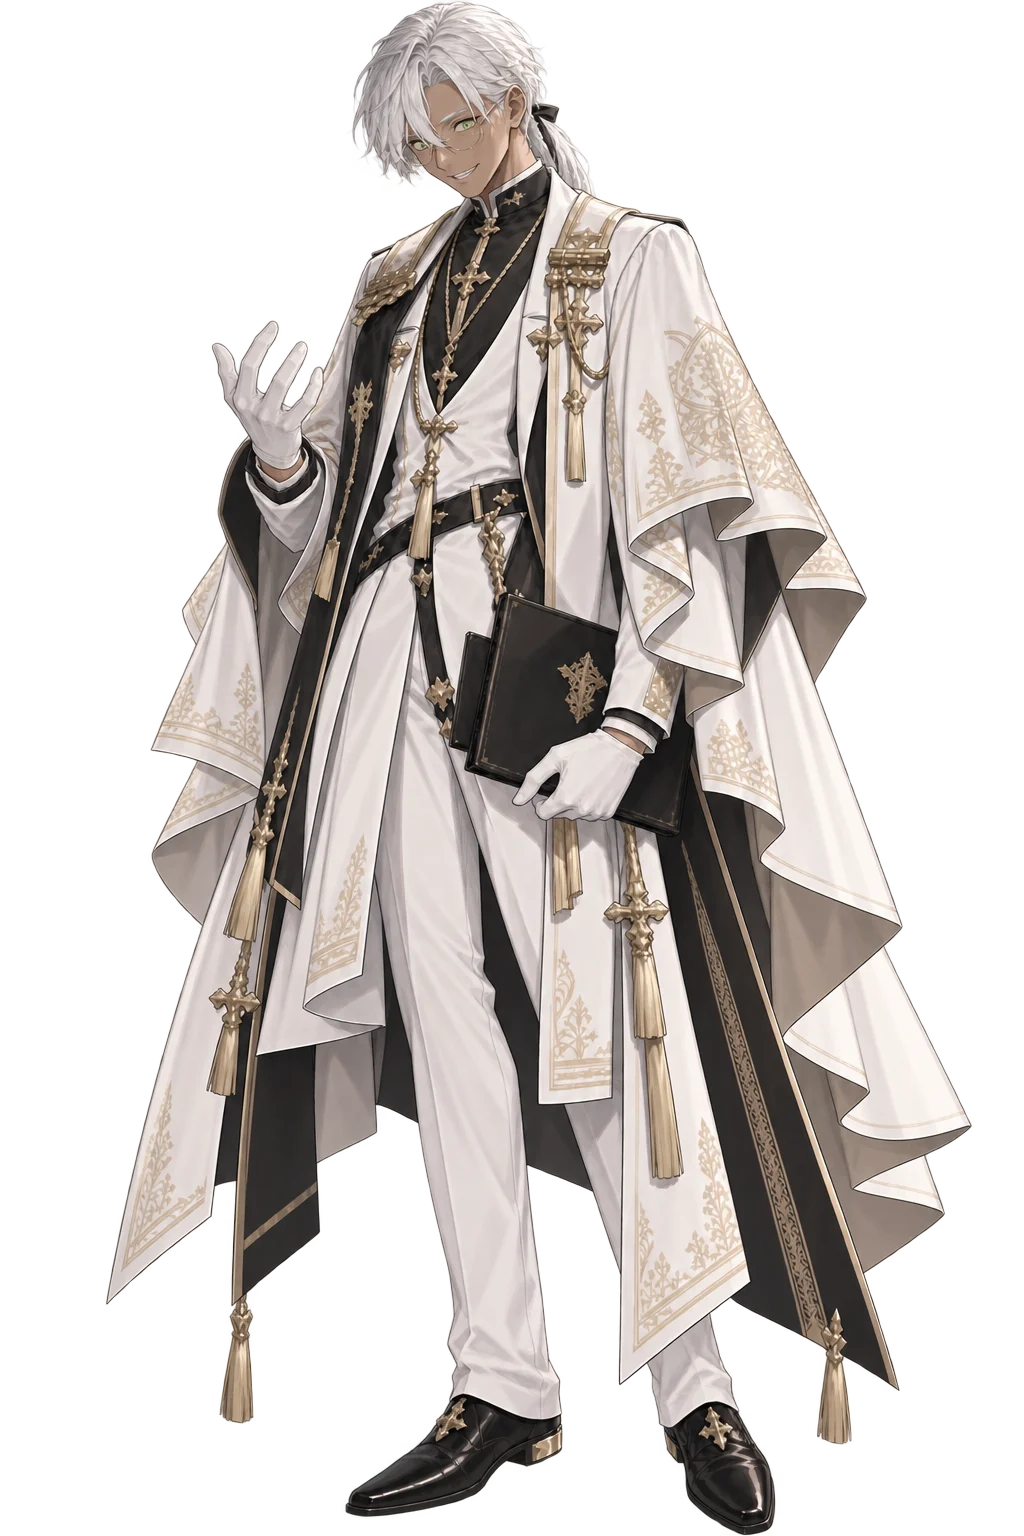
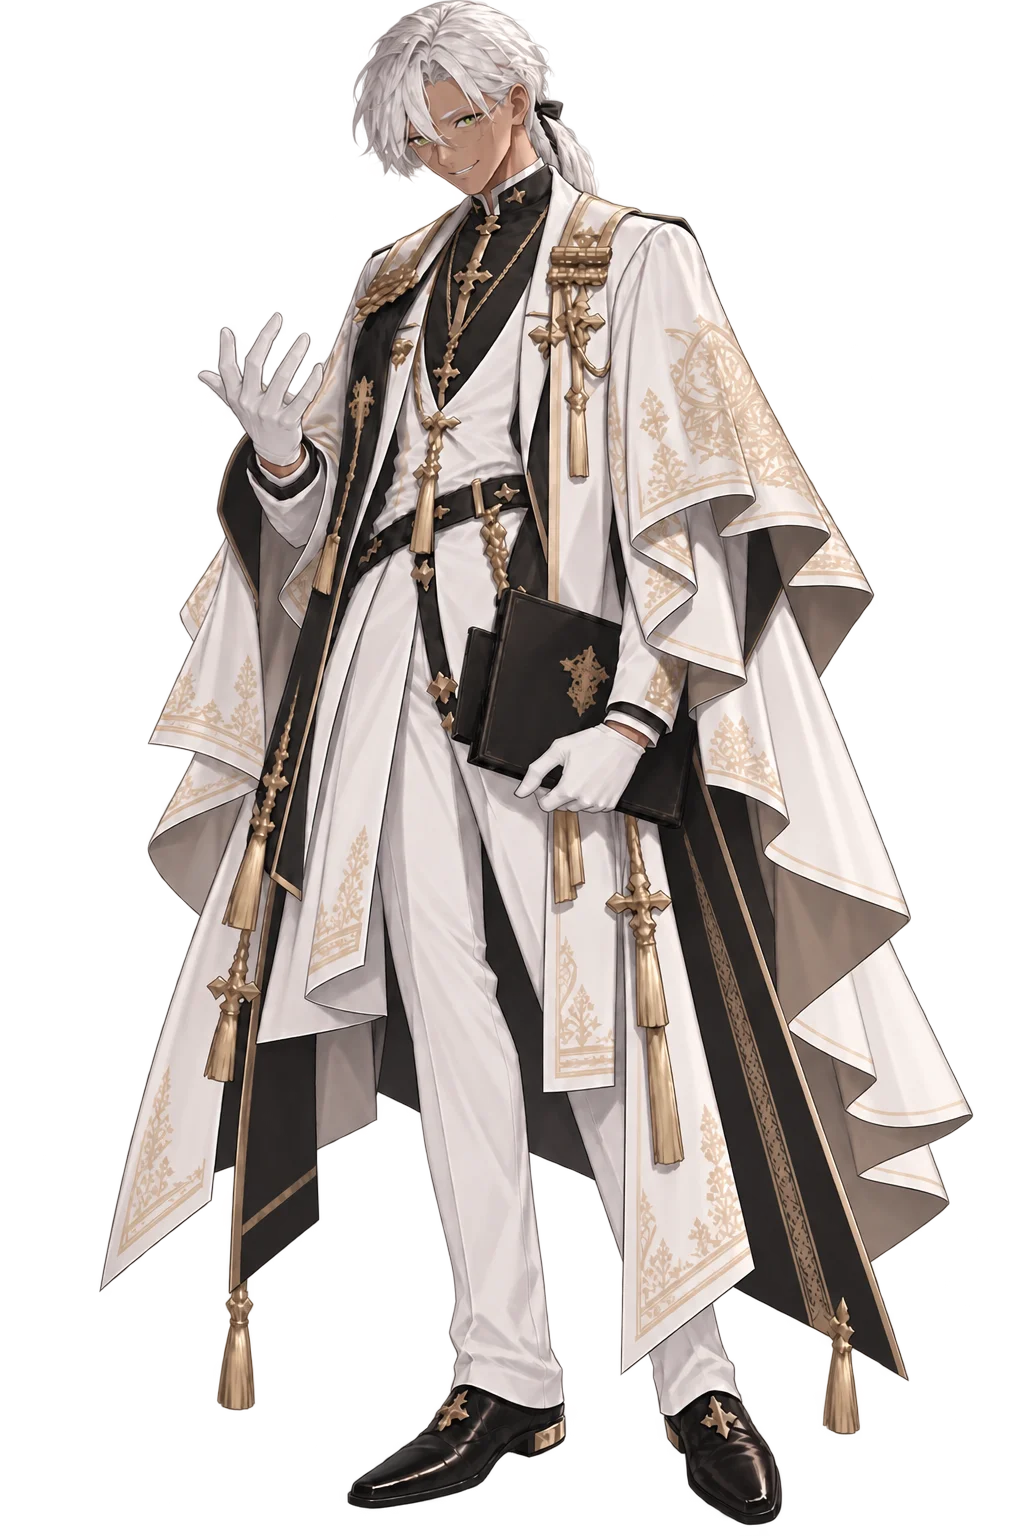
fix: 共鬥期間不再累積破防值／料理完成全域可點／高跟鞋 SE／科爾文新圖 ver -1002
Ray 這一輪五件：

1. 「共鬥期間破防值只增不減，鹿主就這樣被索拉娜射到死了」＋
   「在索拉娜 lv9 之前，共鬥時是不會累計破防值的」
   → `combat.addEnergy` 在 coopMode 直接 return，**除非**有 Lv9「獵手星」。
   共鬥是「消耗全部破防值」換來的，期間又照樣累積等於一邊燒一邊補；
   Lv9 那顆星的整句話就是「共鬥期間**可累積之**破防值，延長爆發時間」——
   **先能累積，才有得換成時間**。
   ⚠ -976 我寫「共鬥期間本來就照常累積」是錯的判讀（當時沒問）。
   ⚠ 發動時的 resetEnergy() 本來就有（查過），所以只增不減是「期間又補回來」造成的。

2. 「每一次使用共鬥，評價 +20 秒」→ rating.penalty.coop 10 → 20。

3. 「料理完成畫面點了沒反應，只能點控制面板，要全域都可點」
   → `#storyCook` 是 z-5 蓋住整個場景區，而推進用的 `#storyTouch` 在 z-3，
     所以上半的點擊被它吃掉（煮的時候那是**刻意的**）。
     加 `#storyCook.tap{pointer-events:none}` —— 只放行「成品已登場、正在等點擊」
     那一段，不讓煮的過程被點掉。

4. 「蕾娜在說科爾文……副團長之前的 se 用 se_highheels」→ 那一拍由 se_steps 改掉。
   ⚠⚠ 它是 **.mp3**（規約是 m4a）而且**還沒量 fileGain** —— 沒有那一列＝增益 1＝
     以母帶響度播出（-441 抓到「跌倒音永遠不出來」就是這個）。要 Ray 用
     tools/audio_scan.html 量一次。

5. 「Corvin_SI_ecstasy 有更新」→ Ray 丟的是新 PNG，而 speakers.js 指的是 .webp
   且該 webp 已不存在 ＝ **那個表情本來是 404**。轉檔、舊原檔走回收區、
   新原檔進 _originals，並：
   · `bot` 重量 1534 → **1525**（新圖矮 9px）
   · `?v=2` —— 同名覆蓋不帶 cache-buster 的話瀏覽器會拿舊的（§5）
   · `fx` **沿用 0.443**：新舊兩張的頭部中線 0.4902/0.4893 幾乎一樣＝同姿勢，
     同姿勢的差分直接沿用不逐張重量（ver -649）

Changed region(s): [[0.0938, 0.0, 0.9688, 1.0], [0.8125, 0.4688, 0.8438, 0.5312]]

diff --git a/modules/combat.js b/modules/combat.js
@@ -1111,13 +1111,17 @@ function addEnergy(v){
   /* 九階強化「疾走」：破防值累積加速（ver -707）。⚠ 乘在**入口**這一處 ——
      呼叫端有好幾個（點擊、反擊…），各自乘一次必然漏掉其中一個（鐵律 7/8）。 */
   const gain = v*svBoost*(1+prog.bonus('energyMul'));
+  /* ══⚠⚠⚠ **共鬥期間預設不累積破防值**（ver -1002，Ray：「在索拉娜 lv9 之前，
+     共鬥時是不會累計破防值的」）══ 共鬥是**消耗全部破防值**換來的一段，
+     期間又照樣累積的話等於一邊燒一邊補。
+     ⚠ Lv9「獵手星」才解開它 —— 那顆星的整句話就是「共鬥期間可累積之破防值，
+       延長爆發時間」：**先能累積，才有得換成時間**。
+     ⚠ -976 那一版寫「共鬥期間本來就照常累積」是**錯的判讀**（我當時沒問）。 */
+  if(state.coopMode && !prog.girlHas(state.pickedPartner,'coopEnergyTime')) return;
   state.energy=Math.min(100,state.energy+gain);
-  /* 索菈娜「獵手星」（Lv9，ver -976，Ray：「共鬥期間每一 hit 可增加破防值，
-     即延長共鬥時間」）：把**這一份增量**即時換算成共鬥的延長秒數。
-     ⚠ 匯率與發動時同一條（`baseSec/100` 秒 per 點）—— 換算只有 saint 一處在做。
-     ⚠ 共鬥期間本來就照常累積破防值（共鬥不是盤面模式，玩家照樣點盤），
-       所以**不必發明「每 hit 幾點」**：用的就是既有的每擊破防量。 */
-  if(state.coopMode && prog.girlHas(state.pickedPartner,'coopEnergyTime')) saint.coopExtendByEnergy(gain);
+  /* 索菈娜「獵手星」（Lv9，ver -976）：把**這一份增量**即時換算成共鬥的延長秒數。
+     ⚠ 匯率與發動時同一條（`baseSec/100` 秒 per 點）—— 換算只有 saint 一處在做。 */
+  if(state.coopMode) saint.coopExtendByEnergy(gain);
   // 教學：雙槍引導前破防值封頂於 preFullEnergy（第三盤起放行 → 首擊即滿、交給教學引導）
   if(tutorial.energyCapActive()){
     state.energy=Math.min(state.energy, (GAME_CONFIG.tutorial && GAME_CONFIG.tutorial.preFullEnergy) || 99);

diff --git a/config.js b/config.js
@@ -65,7 +65,7 @@ export const HITFX = {
  *     以為是快取卡住 —— 版本號不動就等於沒有版本號）。
  *  ⚠ 它同時是**暖開機戳記的鑰匙**（main.js 的 `WARM_BOOT`）：版本一變，
  *    上一版的戳記就失效 → 下一次開機重跑完整讀取。那正是改版後該有的行為。 */
-export const VERSION = 'ver 2026.09.09-1001';
+export const VERSION = 'ver 2026.09.09-1002';
 
 export const GAME_CONFIG = {
 
@@ -1896,11 +1896,12 @@ export const GAME_CONFIG = {
          `battleLoot.money` 的逐場擲骰 —— 同一筆收入三個來源，調起來永遠對不準（鐵律 7）。
        ⚠ 沒有 E 了（`tiers` 是 S/A/B/C/D 五階，D 接住所有人）。查不到就當 D。 */
     moneyByGrade: { S:0.9, A:0.8, B:0.7, C:0.6, D:0.5 },
-    /* ⚠ `coop` ＝**獵手的共鬥發動一次加 10 秒**（ver -958 立 5、**-959 由 Ray 改 10**）——
+    /* ⚠ `coop` ＝**獵手的共鬥發動一次加 20 秒**（ver -958 立 5、-959 改 10、
+       **-1002 由 Ray 改 20**：「每一次使用共鬥，評價 +20 秒」）——
        正號是刻意的：共鬥期間**無敵**，那一段本來就好打，評價要把它還回去
        （同索菈娜搭檔卡上的 `timeKBonus`）。它是這張表裡唯一「用了技能反而變嚴」的項。 */
     penalty: { wrong: 2, assault: 3, block: 1, delay: 1, counter: -0.5,
-               overkill: 0, perfectBoard: -1, maxBurst: -10, execution: -15, coop: 10 },
+               overkill: 0, perfectBoard: -1, maxBurst: -10, execution: -15, coop: 20 },
     /* ══⚠⚠ **整場無傷 ＝ 等第下限**（ver -626，Ray：「無傷基本讓他保證 S」）══
        ver -620 是「折 10 秒」，已推翻 —— 定額折秒的份量被**場的大小稀釋**：
        同樣 10 秒在 300 血的場值 16.7 分、在 1500 血的城鎮戰只值 3.3 分（五倍差），

diff --git a/script/speakers.js b/script/speakers.js
@@ -763,7 +763,13 @@ export const ART = {
               stare:     { src:'resources/SI/NPC/Corvin_SI_stare.webp',     top:3, bot:1531, fx:0.455 },
               talk:      { src:'resources/SI/NPC/Corvin_SI_talk.webp',      top:6, bot:1531, fx:0.459 },
               shock:     { src:'resources/SI/NPC/Corvin_SI_shock.webp',     top:6, bot:1533, fx:0.462 },
-              ecstasy:   { src:'resources/SI/NPC/Corvin_SI_ecstasy.webp',   top:0, bot:1534, fx:0.443 },
+              /* ⚠⚠ ver -1002：Ray 換了新圖（同名覆蓋）。`?v=2` 是**必要的** ——
+                 瀏覽器以 URL 為鍵，檔名沒變、內容變了它照樣拿舊的那一份（§5）。
+                 ⚠ `bot` 重量過：1534 → **1525**（新圖矮了 9px）；`top` 仍是 0。
+                 ⚠ `fx` **沿用 0.443**：量過新舊兩張的頭部中線（0.4902 / 0.4893）
+                   幾乎一樣＝同一個姿勢 —— 同姿勢的差分直接沿用，不要逐張重量
+                   （ver -649 的規矩）。 */
+              ecstasy:   { src:'resources/SI/NPC/Corvin_SI_ecstasy.webp?v=2', top:0, bot:1525, fx:0.443 },
               think:     { src:'resources/SI/NPC/Corvin_SI_think.webp',     top:8, bot:1530, fx:0.450 },
               read:      { src:'resources/SI/NPC/Corvin_SI_read.webp',      top:6, bot:1532, fx:0.459 },
               lookaside: { src:'resources/SI/NPC/Corvin_SI_lookaside.webp', top:1, bot:1533, fx:0.501 },

diff --git a/modules/story.js b/modules/story.js
@@ -1347,6 +1347,12 @@ const SE_FILES=[
   'se_enemy_revolver.m4a', 'se_enemy_shot.m4a', 'se_enemy_slash.m4a', 'se_enemy_smack.m4a',
   'se_land.m4a',   // 著岸（ver -744，湖上甲板）
   'se_woodbreak.m4a',   // 舵斷裂的木裂聲（ver -751，Ray 交件；取代暫代的 se_brickcrush）
+  /* 高跟鞋的腳步（ver -1002，Ray：「蕾娜在說科爾文……副團長之前的 se 用 se_highheels」）。
+     ⚠⚠ 它是 **.mp3**（規約是 m4a，§6.6）—— 轉檔時**檔名別改**，改了這一行與
+       `tuning.fileGain` 都要跟著動。
+     ⚠⚠ **`fileGain` 還沒量**（沒有量測工具在手）：沒有那一列＝增益 1 ＝以母帶的響度播出，
+       正是 -441 抓到「跌倒音永遠不出來」的成因。要 Ray 用 `tools/audio_scan.html` 量一次。 */
+  'se_highheels.mp3',
   /* ══ Stage8（ver -953）══ 瑪麗亞的廚房與科爾文那一幕。
      ⚠ `se_cooking` 有 **39.7 秒**（一整段煎煮）—— 演出只用前面幾秒，
        所以它走 `SFX.playCue` 的把手收掉，不是 `playSe`（那一支會放到底）。 */

diff --git a/style.css b/style.css
@@ -3161,6 +3161,13 @@
     opacity:0;transition:opacity .4s ease;}
   #storyCook.on{display:flex;}
   #storyCook.show{opacity:1;}
+  /* ══⚠⚠ **成品登場之後整片放行**（ver -1002，Ray：「料理完成畫面點了沒反應，
+     只能點控制面板，要全域都可點」）══
+     這一層是 `z-5`、蓋住整個場景區，而推進用的 `#storyTouch` 在 `z-3` ——
+     所以煮的時候它把上半的點擊全吃掉了（那是**刻意的**：煮到一半不該被跳過）。
+     `.tap` ＝成品已經登場、正在等點擊，那時就要讓整片都點得到。
+     ⚠ 只放行 `.tap` 這一段，不要整個改成 `none`：那會讓煮的過程可以被點掉。 */
+  #storyCook.tap{pointer-events:none;}
   #storyCook img{max-width:74%;max-height:60%;object-fit:contain;
     filter:drop-shadow(0 12px 26px rgba(0,0,0,.6));position:relative;z-index:1;}
   /* ══⚠⚠ 成品登場（ver -953，Ray：「菜品登場時（cooking 完成）縮小彈出，

diff --git a/script/town.js b/script/town.js
@@ -161,7 +161,9 @@ const SV_S8_DINE = { flag:'sv_s8_dine', need:'sv_s8_home', fromStage:8, lines:[
   sor('think','……就是比較聰明的人？'),
   cor('smile','您能這麼理解，光榮之至。'),
   sor('upset','你一定要那樣講話嗎？'),
-  { speaker:'RENNA', text:'', se:'se_steps', auto:1400 },   // （腳步聲）
+  /* ⚠ ver -1002（Ray）：這一拍的腳步改用 **se_highheels** —— 走進來的是科爾文，
+     那雙鞋的聲音就是蕾娜認出他的線索（`se_steps` 是一般腳步，誰都可能）。 */
+  { speaker:'RENNA', text:'', se:'se_highheels', auto:1400 },   // （高跟鞋的腳步聲）
   ren('curious','科爾文……副團長！'),
   cor(null,'許久不見了，海森伯格小姐。'),
   ren('covermouth','怎麼會……勞您親自……'),

diff --git a/index.html b/index.html
@@ -53,7 +53,7 @@
      沒有 buster 時手機會沿用舊快取的 CSS —— Ray 回報「ovk 沒把點掉的方格撤掉」
      實測現行 CSS（-839 的 :not(.done)）行為正確，殘留裂紋是舊 CSS 快取。
      改 style.css 就順手 bump 這個號。 -->
-<link rel="stylesheet" href="style.css?v=1000">
+<link rel="stylesheet" href="style.css?v=1002">
   <!-- 拾得道具／道具欄／商店／懸賞榜（ver -380 抽出，飛行頁共用同一份）。
        ⚠ `data-lootsheet` 是給 `modules/loot.js` 認的：它看到已經掛過就不再掛一次。
          飛行頁沒有這一行，由那支模組自己掛上去。 -->
